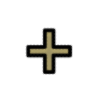
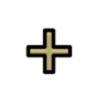
Enabled showing/hiding the DH UI

diff --git a/μStrategy.py b/μStrategy.py
@@ -80,19 +80,13 @@ class μPartyNode(μNode):
   _DIAG = 1.0 / math.sqrt(2)
 
   @staticmethod
-  def _db():
-    from μMilvian import μMilvianMeta
-    return μMilvianMeta.partyPreferences
-
-  @staticmethod
-  def dataGet(name: str) -> dict:
-    return μPartyNode._db().get(name, {})
+  def dataGet(name: str) -> μDict:
+    return μDict(μMilvianMeta.partyPreferences.get(name, {}))
 
   @staticmethod
   def dataSet(name: str, field: str, value):
-    db = μPartyNode._db()
-    db.set(f"{name}/{field}", value)
-    db.save()
+    μMilvianMeta.partyPreferences.set(f"{name}/{field}", value)
+    μMilvianMeta.partyPreferences.save()
 
   # ──────────────────────────────────────────────────────────────────────────────────────────────────────────
   def __init__(self, key: str, parent=None, bg : QPixmap = None, allowOutgoing: bool = True):
@@ -100,7 +94,7 @@ class μPartyNode(μNode):
     self.key   = key
     self.owner = None
     self.setLabel()
-    entry = μDict(μPartyNode.dataGet(self.id))
+    entry = μPartyNode.dataGet(self.key)
     self.label = entry['nickname'] or self.label
     icon = entry['icon_path']
     self.decorations: list[tuple[QPixmap, str]] = []
@@ -110,9 +104,10 @@ class μPartyNode(μNode):
   # ──────────────────────────────────────────────────────────────────────────────────────────────────────────
   def setLabel(self):
     if ":" in self.key:  # pet — key is "owner:id"
-      self.id    = '#' + self.key.split(':')[1].lower()
       self.owner = self.key.split(':')[0].lower()
       self.label = self.key
+      self.id    = '#' + self.key.split(':')[1].lower()
+      self.key   = self.owner+":pet"
     else:
       self.id    = self.key.lower()
       self.owner = None
@@ -176,7 +171,7 @@ class μPartyNodePanel(QWidget):
     self.nickEdit.setPlaceholderText("Nickname")
 
     self.btnSave     = μOrbSmall(icon=P_ICON_SAVE,  tooltip="Save")
-    self.btnEditIcon = μOrbSmall(icon=P_ICON_IMAGE,  tooltip="Edit Image")
+    self.btnEditIcon = μOrbSmall(icon=P_ICON_IMAGE, tooltip="Edit Image")
     self.btnClose    = μOrbSmall(icon=P_ICON_CLOSE, tooltip="Close")
 
     self.btnSave.clicked.connect(self.save)
@@ -238,11 +233,11 @@ class μPartyNodePanel(QWidget):
     if not nickChanged and not iconChanged: return
     if nickChanged:
       nick = self.nickEdit.text().strip() or self._originalNick
-      μPartyNode.dataSet(self._node.id, 'nickname', nick)
+      μPartyNode.dataSet(self._node.key, 'nickname', nick)
       self._node.label   = nick
       self._originalNick = nick
     if iconChanged:
-      μPartyNode.dataSet(self._node.id, 'icon_path', self._iconPath)
+      μPartyNode.dataSet(self._node.key, 'icon_path', self._iconPath)
       self._node.setBg(QPixmap(self._iconPath))
     if μStrategy._widget: μStrategy._widget.board.update()
 

diff --git a/helpers/χHelper.py b/helpers/χHelper.py
@@ -17,10 +17,13 @@
 from Xlib import X, display
 import Xlib.error
 import Xlib.protocol.event
+import Xlib.Xutil
 import time, re, threading, json, subprocess
 from helpers.tStoppableThread import tStoppableThread
 from helpers.μPrint import μPrint
 from helpers.χDispatcher import χDispatcher
+from helpers.μStrings import μString
+import os
 
 P_DEFAULT_SLEEP = 0.05
 P_DEFAULT_KEYSYM = '/usr/include/X11/keysymdef.h'
@@ -339,6 +342,49 @@ class χHelper():
       return None
     finally:
       disp.close()
+
+  # ──────────────────────────────────────────────────────────────────────────────────────────────────────────
+  @classmethod
+  def getWinIDByName(cls, name: str) -> list:
+    clientList = cls.root.get_full_property(cls.netClientList, X.AnyPropertyType)
+    if not clientList: return []
+    results = []
+    for winID in clientList.value:
+      win = cls.disp.create_resource_object('window', winID)
+      try:
+        prop = win.get_full_property(cls.netWMName, X.AnyPropertyType)
+        title = μString(prop.value.decode('utf-8')) if prop else None
+        if title is None:
+          prop = win.get_full_property(cls.WMName, X.AnyPropertyType)
+          title = μString(prop.value.decode('utf-8')) if prop else None
+        if title and title == name:
+          results.append(winID)
+      except:
+        continue
+    return results
+
+  # ──────────────────────────────────────────────────────────────────────────────────────────────────────────
+  @classmethod
+  def iconify(cls, winID, val: bool = None) -> None:
+    win = cls.disp.create_resource_object('window', winID)
+    if val is None:
+      val = win.get_attributes().map_state == X.IsViewable
+    if val:
+      netChangeState = cls.disp.intern_atom('WM_CHANGE_STATE')
+      event = Xlib.protocol.event.ClientMessage(
+        window      = win,
+        client_type = netChangeState,
+        data        = (32, [Xlib.Xutil.IconicState, 0, 0, 0, 0])
+      )
+      cls.root.send_event(event, event_mask=X.SubstructureNotifyMask | X.SubstructureRedirectMask)
+    else:
+      event = Xlib.protocol.event.ClientMessage(
+        window      = win,
+        client_type = cls.netActiveWindow,
+        data        = (32, [1, X.CurrentTime, 0, 0, 0])
+      )
+      cls.root.send_event(event, event_mask=X.SubstructureNotifyMask | X.SubstructureRedirectMask)
+    cls.disp.sync()
 
   # ──────────────────────────────────────────────────────────────────────────────────────────────────────────
   @classmethod

diff --git a/μDungeonHelper.py b/μDungeonHelper.py
@@ -51,17 +51,21 @@ class μDungeonHelper(aProcessItem):
                     tooltip="Launches Dungeon Helper (it if is installed); activates on all instances" \
                      " of the game for as long as it runs.<br><b>Ctrl+Click to purge any instances and restart Dungeon Helper.<br><b><i>Right-click for more options</i></b>")
     self.orb.setCheckable(True)
-    self.actionToggle  = self.orb.menu.addAction("Launch DungeonHelper")
-    self.actionRestart = self.orb.menu.addAction("Restart DungeonHelper")
-    self.actionKill    = self.orb.menu.addAction("Kill DungeonHelper")
-    self.actionConf    = self.orb.menu.addAction("Show/Hide setting UI")
+    self.actionToggle       = self.orb.menu.addAction("Launch DungeonHelper")
+    self.actionRestart      = self.orb.menu.addAction("Restart DungeonHelper")
+    self.actionKill         = self.orb.menu.addAction("Kill DungeonHelper")
+    self.actionToggleUI     = self.orb.menu.addAction("Show/Hide UI")
+    self.actionToggleOv     = self.orb.menu.addAction("Show/Hide Overlay")
+    self.actionToggleUIov   = self.orb.menu.addAction("Show/Hide UI + Overlay")
 
     self.orb.clicked.connect(self.toggle)
     self.orb.ctrlClicked.connect( lambda : self.restart(purge=True))
     self.actionToggle.triggered.connect(self.toggle)
     self.actionRestart.triggered.connect(self.restart)
     self.actionKill.triggered.connect(self.kill)
-    self.actionConf.triggered.connect(lambda : main.settings.toggle())
+    self.actionToggleUI.triggered.connect(lambda: self.toggleUI())
+    self.actionToggleOv.triggered.connect(lambda: self.toggleOverlay())
+    self.actionToggleUIov.triggered.connect(lambda: self.toggleUIOverlay())
 
     self.sigRunning.connect(self.watchPID)
     self.sigGotPID.connect(self.watchWinID)
@@ -176,6 +180,25 @@ class μDungeonHelper(aProcessItem):
     baseExec = os.path.basename(μSettings.plugins.dhExec())
     χTop.terminateAll(baseExec)
     self.clear()
+  
+  #----------------------------------------------------------------------------------------------------------
+  def toggleUI(self, val=None):
+    winIDs = χHelper.getWinIDByName("dungeon helper")
+    for w in winIDs: χHelper.iconify(w, val)
+    winIDs = χHelper.getWinIDByName("wine system tray")
+    for w in winIDs: χHelper.iconify(w, val)
+
+  #----------------------------------------------------------------------------------------------------------
+  def toggleOverlay(self, val=None):
+    winIDs = χHelper.getWinIDByName("dungeon helper overlay")
+    for w in winIDs: χHelper.iconify(w, val)
+
+  #----------------------------------------------------------------------------------------------------------
+  def toggleUIOverlay(self, val=None):
+    winIDs = χHelper.getWinIDByName("dungeon helper*")
+    for w in winIDs: χHelper.iconify(w, val)
+    winIDs = χHelper.getWinIDByName("wine system tray")
+    for w in winIDs: χHelper.iconify(w, val)
   
   #----------------------------------------------------------------------------------------------------------
   def clear(self, kill=False):

diff --git a/μSettingsProfile.py b/μSettingsProfile.py
@@ -117,7 +117,7 @@ class dLauncher(dSection):
     self.lblBackendPath.setFixedWidth(160)
     self._language.setEnabled(False)
     self._backend.currentIndexChanged.connect(self.toggleBackend)
-    self.toggleBackend()
+    # self.toggleBackend()
     super().__init__(state)
 
   # ──────────────────────────────────────────────────────────────────────────────────────────────────────────---  
@@ -208,6 +208,13 @@ class dPlugins(dSection):
     self._strategyFrameSize = QSpinBox()
     self._strategyFrameSize.setValue(36) # default values
     self._strategyPath.setText(P_DEFAULT_CONFIGDIR+os.sep+"strategy/") # default values
+    
+    # This would be handy but very difficult to implement, specially the overlay part, since we cannot know
+    # when they spawn and I will NOT create a daemon just for that
+    # self._hideDHUI         = QComboBox()
+    # self._hideDHOverlay    = QComboBox()
+    # self._hideDHUI.addItems(["Remember", "Always borderless", "Never borderless"])
+    # self._hideDHOverlay.addItems(["Remember", "Always borderless", "Never borderless"])
 
     self._useMilvian.setEnabled(False)
     self._milvianSHMPath.setEnabled(False)

diff --git a/μMap.py b/μMap.py
@@ -55,6 +55,8 @@ P_PIN_TYPE_MAP: dict[int, str] = {
    18: "map/pin_area_red",
    19: "map/pin_door_raid_yellow",
    20: "map/pin_dimension_door",
+   21: "map/pin_main",
+   22: "map/pin_target",
   100: "map/pin_chalice_yellow",
   101: "map/pin_chalice_blue",
   102: "map/pin_chalice_grey",

diff --git a/README.md b/README.md
@@ -49,6 +49,12 @@ A powerful Linux launcher for the game Dungeons & Dragons Online, using Python a
       - vizualize keyboard with its macros
   - Map
     - use arrow for main character (follow heading)
+    - currently only detects entities nearby; should be possible to detect fixed entities (like all vendors in a public area) but I don't know how to extract that kind of info yet
+    - figure out distinction between:
+      - normal monsters vs bosses
+        - boss, raid, mini-boss, rare encounters, etc
+      - champions and normal monsters
+        - between champion ranks
     - distinguish own pet from other pets
     - allow entering "commander" and "leader" in the list of sources
     - auto-refresh background image when changing areas (currently needs to click "refresh")
